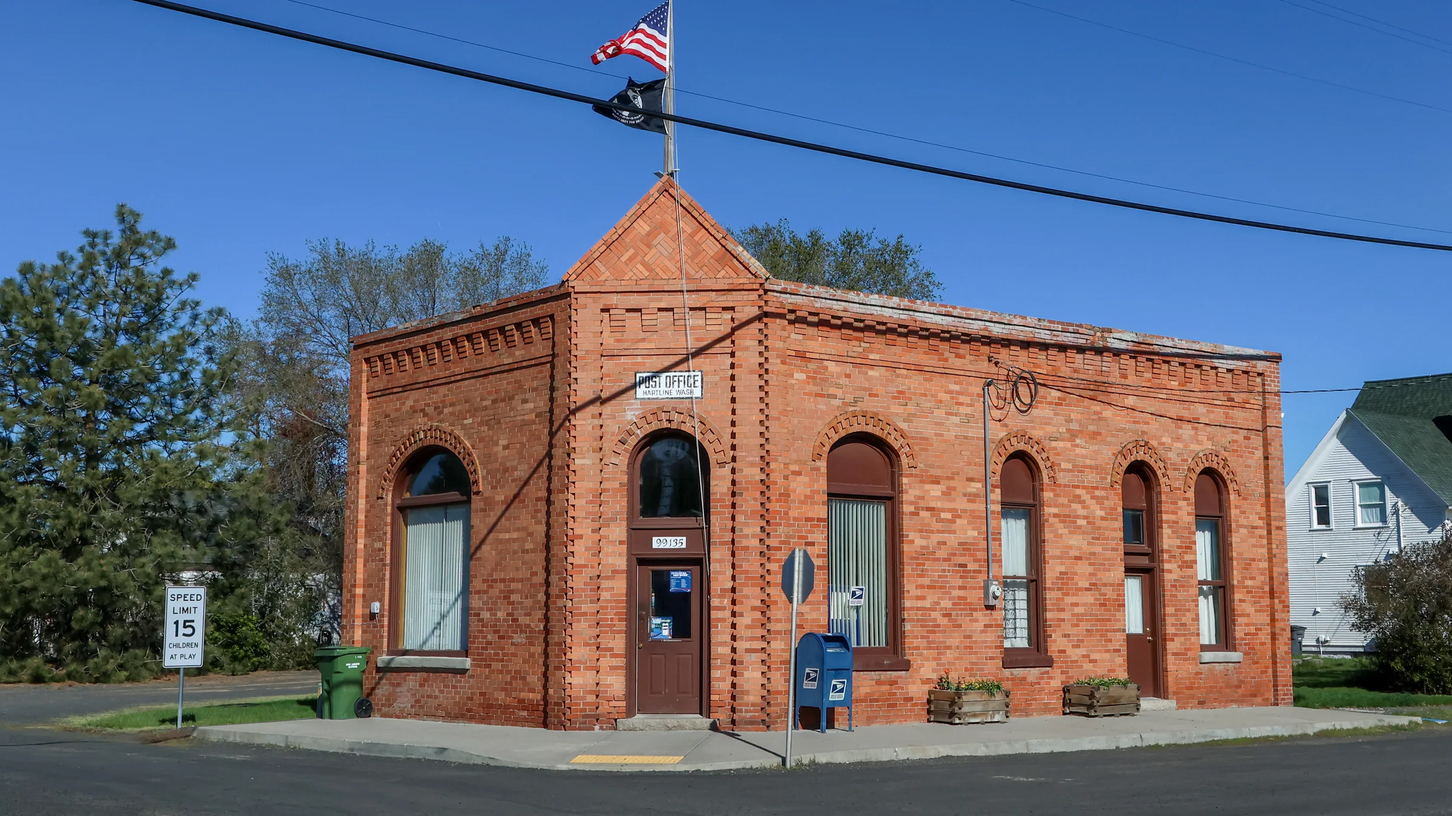
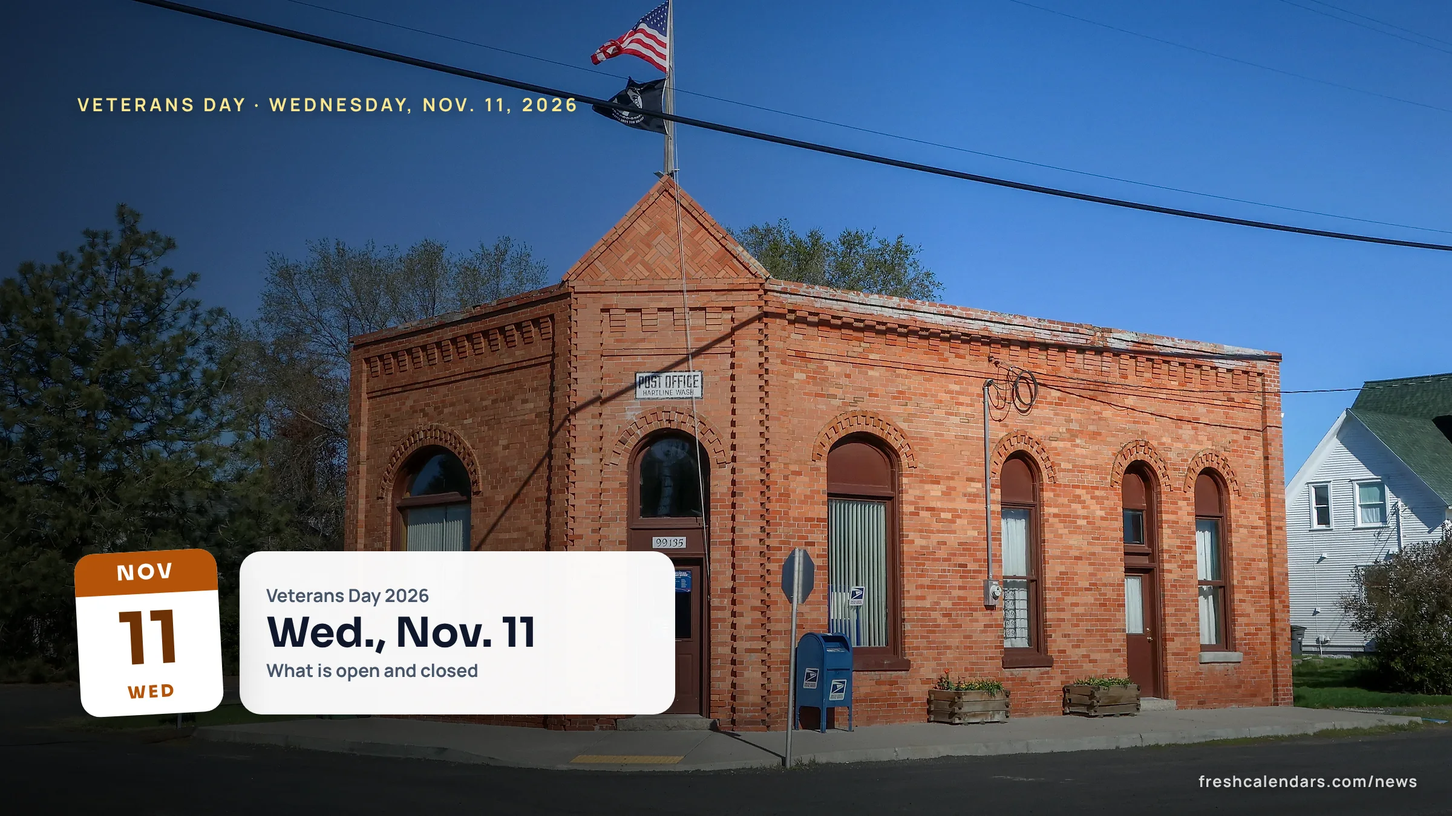
news(update): Veterans Day 2026 open/closed guide, 50-state table with state finder, carriers, VA, courts, countdown, new photo hero
Claude-Session: https://claude.ai/code/session_01FjeiYRWDXqsBhWSJPJfd5q

diff --git a/apps/news/src/content/articles/2026/10/veterans-day-2026-wednesday-november-11.md b/apps/news/src/content/articles/2026/10/veterans-day-2026-wednesday-november-11.md
@@ -1,35 +1,54 @@
 ---
 title: "What's Open and Closed on Veterans Day 2026, and Why the Holiday Never Moves to a Monday"
 seoTitle: "Veterans Day 2026: Post Office, Banks, DMV Open?"
-description: "Veterans Day 2026 is Wednesday, Nov. 11: post offices, the Federal Reserve and the Department of Motor Vehicles (DMV) in several states close; stocks trade."
+description: "Veterans Day 2026 is Wednesday, Nov. 11: post offices, the Federal Reserve and several state Department of Motor Vehicles (DMV) offices close; stocks trade."
 type: update
 publishedAt: "2026-10-17T17:00:00-04:00"
-updatedAt: "2026-11-02T12:50:00-05:00"
+updatedAt: "2026-11-08T03:43:00-05:00"
 authors: [christina-gerland]
 category: holidays
-keywords: ["Veterans Day 2026", "is the stock market open on Veterans Day", "is there mail on Veterans Day", "banks closed Veterans Day 2026", "November 11 2026"]
+keywords: ["Veterans Day 2026", "what's open and closed on Veterans Day 2026", "is there mail on Veterans Day", "is Veterans Day a state holiday", "banks closed Veterans Day 2026"]
 dateline: "New York"
 hero:
-  src: ../../../../assets/news/veterans-day-2026-wednesday-november-11/veterans-day-2026-wednesday-november-11.jpg
-  alt: "Veterans Day 2026 on Wednesday, Nov. 11: a waving U.S. flag and red remembrance poppies beside a Nov. 11 calendar page"
-  title: "Veterans Day 2026, Wednesday, Nov. 11: what's open and closed"
-  caption: "Veterans Day stays on Nov. 11 every year; in 2026 it falls on a Wednesday, so federal offices, banks and mail delivery stop midweek."
+  src: ../../../../assets/news/veterans-day-2026-wednesday-november-11/veterans-day-2026-wednesday-november-11.webp
+  alt: "U.S. Post Office in Hartline, Washington, flying the U.S. flag and the POW/MIA flag; post offices close for Veterans Day 2026"
+  caption: "The U.S. Post Office in Hartline, Washington, in April 2025. Post offices close and regular mail stops on Wednesday, Nov. 11, 2026, Veterans Day."
+  credit: "Photo: Cindy Shebley / Wikimedia Commons, cropped, edited"
+  license:
+    name: "CC BY 4.0"
+    url: "https://creativecommons.org/licenses/by/4.0"
+    source: "https://commons.wikimedia.org/wiki/File:Hartline_WA_USA_April_17,_2025_United_States_Post_Office_Building_(54678960554).jpg"
+    author: "Cindy Shebley"
+    authorUrl: "https://www.flickr.com/people/25636851@N03"
+assets:
+  overlay: true
+  kicker: "Veterans Day · Wednesday, Nov. 11, 2026"
+  date: "2026-11-11"
+  card: { top: "Veterans Day 2026", big: "Wed., Nov. 11", bottom: "What is open and closed" }
 summary:
   - "Veterans Day 2026 is Wednesday, Nov. 11, a federal holiday that stays on Nov. 11 every year."
-  - "Federal offices, the Federal Reserve, most banks and the Postal Service close; there is no regular mail delivery."
-  - "The New York Stock Exchange and Nasdaq are open; the bond market closes for the day."
-  - "In 2028 and 2029 the holiday falls on a weekend, so federal workers get Friday, Nov. 10, 2028 and Monday, Nov. 12, 2029 off."
+  - "All post offices close and regular mail and retail service resume Thursday, Nov. 12 (U.S. Postal Service, Nov. 4 release); the Federal Reserve and the bond market close."
+  - "The New York Stock Exchange and Nasdaq are open. State offices and Departments of Motor Vehicles vary: the state table and finder show what each state's official page says."
+  - "Arlington's national observance starts at 11 a.m. Eastern Time; the countdown clock shows that moment in your time zone."
 faq:
   - q: "Is Veterans Day 2026 a federal holiday?"
     a: "Yes. Veterans Day is one of the 11 federal holidays. In 2026 it falls on Wednesday, Nov. 11, and federal offices are closed."
   - q: "Is the stock market open on Veterans Day 2026?"
     a: "Yes. The New York Stock Exchange and Nasdaq hold a normal session from 9:30 a.m. to 4:00 p.m. ET. The bond market closes for the day under the schedule recommended by SIFMA."
   - q: "Is there mail on Veterans Day?"
-    a: "No. The U.S. Postal Service does not deliver regular mail and post offices are closed on federal holidays, including Veterans Day."
+    a: "No. The U.S. Postal Service says all Post Office locations are closed Wednesday, Nov. 11, 2026, and regular mail delivery and retail services resume Thursday, Nov. 12."
   - q: "Are banks open on Veterans Day?"
-    a: "Most banks close because the Federal Reserve is closed. ATMs, cards and online banking work, but transfers started on Nov. 11 usually settle on the next business day."
+    a: "Most banks close because the Federal Reserve is closed. ATMs, cards and online banking work. The South Carolina State Treasurer's 2026 holiday memo says no wire transfers or Automated Clearing House (ACH) files are processed when banks and the Federal Reserve are closed."
   - q: "Is the DMV open on Veterans Day 2026?"
-    a: "It depends on the state. California and Pennsylvania list Nov. 11 as a closure day for their driver license offices. New York lists it as a state legal holiday and Texas closes state offices, but check the office hours in your state."
+    a: "It depends on the state. California, Georgia, Iowa, Maryland, New Jersey and Pennsylvania list Nov. 11 as a closure for their driver license or motor vehicle offices. Florida, North Carolina and Oregon list it among their DMV holidays or closures. Check the state table."
+  - q: "Is Veterans Day a state holiday?"
+    a: "Mostly yes. Of the 51 jurisdictions in the table in this story, 48 have an official page or law that names Nov. 11. The table gives each state's own wording. Some states only list it as a paid holiday, and a few pages do not say whether offices close."
+  - q: "Is Costco open on Veterans Day 2026?"
+    a: "Costco has not posted 2026 Veterans Day hours on a page we could read, so check your warehouse."
+  - q: "Do UPS and FedEx deliver on Veterans Day 2026?"
+    a: "They set their own schedules. We could not read either carrier's 2026 holiday schedule, so check ups.com or fedex.com."
+  - q: "Are federal courts open on Veterans Day?"
+    a: "Federal courts generally close on federal holidays; for example, the U.S. Bankruptcy Court for the Eastern District of Washington lists itself closed Wednesday, Nov. 11, 2026."
   - q: "Are schools closed on Veterans Day 2026?"
     a: "It depends on the district. NYC Public Schools lists Wednesday, Nov. 11, 2026 as Veterans Day, schools closed. Most districts set their own calendars, so check yours."
   - q: "Why isn't Veterans Day on a Monday?"
@@ -81,6 +100,68 @@ sources:
     url: "https://www.nps.gov/planyourvisit/passes.htm"
     publisher: "National Park Service"
     date: "2026-10-09"
+  - title: "U.S. Postal Service To Observe Veterans Day Holiday, Nov. 11"
+    url: "https://about.usps.com/newsroom/national-releases/2026/1104-usps-to-observe-veterans-day-on-nov-11.htm"
+    publisher: "U.S. Postal Service"
+    date: "2026-11-04"
+  - title: "2026 National Veterans Day Observance Open to Public"
+    url: "https://www.arlingtoncemetery.mil/Media/News/Post/15150/2026-National-Veterans-Day-Observance-Open-to-Public"
+    publisher: "Arlington National Cemetery"
+    date: "2026-10-08"
+  - title: "Store Holiday Hours at The Home Depot"
+    url: "https://corporate.homedepot.com/news/company/store-holiday-hours-home-depot"
+    publisher: "The Home Depot"
+    date: "2026-03-30"
+  - title: "2026 Holiday Shopping at Target"
+    url: "https://corporate.target.com/press/fact-sheet/2026/11/holiday-shopping-information"
+    publisher: "Target Corporation"
+    date: "2026-11-05"
+  - title: "Court Holidays"
+    url: "https://www.waeb.uscourts.gov/court-holidays"
+    publisher: "U.S. Bankruptcy Court, Eastern District of Washington"
+  - title: "Iowa DOT offices closed Nov. 11 for Veterans Day"
+    url: "https://iowadot.gov/news/2026-10-30/iowa-dot-offices-closed-nov-11-veterans-day"
+    publisher: "Iowa Department of Transportation"
+    date: "2026-10-30"
+  - title: "November 2026 closures"
+    url: "https://mva.maryland.gov/news/november-2026-closures"
+    publisher: "Maryland Motor Vehicle Administration"
+    date: "2026-10-29"
+  - title: "Board of Driver Services"
+    url: "https://dds.georgia.gov/board-driver-services"
+    publisher: "Georgia Department of Driver Services"
+  - title: "MVC Holidays"
+    url: "https://www.nj.gov/mvc/locations/holidays.htm"
+    publisher: "New Jersey Motor Vehicle Commission"
+  - title: "DMV Office Closures"
+    url: "https://www.oregon.gov/odot/DMV/Pages/Offices/closures.aspx"
+    publisher: "Oregon DMV"
+  - title: "NCDMV Holiday Schedule"
+    url: "https://www.ncdot.gov/dmv/offices-services/locate-dmv-office/Pages/holidays-schedule.aspx"
+    publisher: "North Carolina DMV"
+  - title: "Georgia State Holidays 2026"
+    url: "https://georgia.gov/georgia-state-holidays-2026"
+    publisher: "Georgia.gov"
+  - title: "Administrative Circular 25-13, Holidays 2026"
+    url: "https://www.pa.gov/content/dam/copapwp-pagov/en/oa/documents/policies/ac/25-13.pdf"
+    publisher: "Pennsylvania Office of Administration"
+    date: "2025-08-19"
+  - title: "Arizona Revised Statutes 1-301"
+    url: "https://www.azleg.gov/ars/1/00301.htm"
+    publisher: "Arizona Legislature"
+  - title: "Wyoming Statutes, Title 8"
+    url: "https://wyoleg.gov/statutes/compress/title08.pdf"
+    publisher: "Wyoming Legislature"
+  - title: "2026 State of South Carolina Holidays vs. Federal/Banking Holidays"
+    url: "https://treasurer.sc.gov/media/5hkfeyd4/2026-state-of-sc-holiday-memo.pdf"
+    publisher: "South Carolina State Treasurer"
+    date: "2025-11-21"
+  - title: "State holidays"
+    url: "https://www.michigan.gov/government/state-holidays"
+    publisher: "State of Michigan"
+  - title: "2026 Schedule of Pay Periods and Holidays"
+    url: "https://finance.utah.gov/wp-content/uploads/2026PP.pdf"
+    publisher: "Utah Division of Finance"
 internalLinks:
   - href: "/when-is/veterans-day/"
     label: "When is Veterans Day? Next date and countdown"
@@ -94,46 +175,147 @@ draft: false
 related: [veterans-day-parades-2026-by-city, veterans-day-2026-national-ceremony-arlington-time, veterans-day-free-meals-discounts]
 ---
 
-Veterans Day 2026 falls on **Wednesday, Nov. 11**. It is a federal holiday, so federal offices, the Federal Reserve, most banks and the U.S. Postal Service close for the day, while the stock market stays open. Unlike most federal holidays, Veterans Day is tied to its date rather than a weekday, which is why it lands midweek this year instead of creating a long weekend.
+Veterans Day 2026 falls on **Wednesday, Nov. 11**, a federal holiday on the Office of Personnel Management (OPM) list. The U.S. Postal Service (USPS) says all Post Office locations close that day, and the Federal Reserve and the bond market close too. The New York Stock Exchange (NYSE) and Nasdaq trade as usual.
+
+Below: a table of what is open and closed, every state's official holiday wording with a state finder, and a live countdown to the 11 a.m. Eastern Time (ET) national observance. Unlike most federal holidays, Veterans Day is tied to its date rather than a weekday, which is why it lands midweek this year instead of creating a long weekend.
 
 ## What is open and closed on Nov. 11, 2026
 
-| Service | Status on Wednesday, Nov. 11 |
-|---|---|
-| Federal government offices | Closed |
-| Federal Reserve | Closed |
-| Most banks | Closed (ATMs, cards and online banking work) |
-| U.S. Postal Service | Post offices closed, no regular mail delivery |
-| Bond market | Closed (industry recommendation) |
-| New York Stock Exchange and Nasdaq | Open, 9:30 a.m. to 4:00 p.m. ET |
-| Public schools | Varies by district |
-| Most stores and restaurants | Open |
+| Service | Status on Wednesday, Nov. 11 | Source |
+|---|---|---|
+| Federal government offices | Closed | [OPM federal holidays](https://www.opm.gov/policy-data-oversight/pay-leave/federal-holidays/) |
+| Federal courts | Generally closed on federal holidays; the U.S. Bankruptcy Court for the Eastern District of Washington lists itself closed | [U.S. Bankruptcy Court court holidays](https://www.waeb.uscourts.gov/court-holidays) |
+| Federal Reserve | Closed | [Federal Reserve holidays](https://www.federalreserve.gov/aboutthefed/k8.htm) |
+| Most banks | Closed; ATMs, cards and online banking work; transfers started Nov. 11 generally settle the next business day, Thursday, Nov. 12 | [Federal Reserve holidays](https://www.federalreserve.gov/aboutthefed/k8.htm) |
+| Post offices | Closed; regular delivery and retail resume Thursday, Nov. 12 | [USPS release, Nov. 4, 2026](https://about.usps.com/newsroom/national-releases/2026/1104-usps-to-observe-veterans-day-on-nov-11.htm) |
+| Bond market | Closed (industry recommendation, confirmed Oct. 28, 2026) | [Securities Industry and Financial Markets Association (SIFMA) release](https://www.sifma.org/news/press-releases/sifma-fixed-income-market-close-recommendation-in-the-u-s-the-u-k-and-japan-for-the-u-s-veterans-day-holiday-2026) |
+| Stock market (NYSE, Nasdaq) | Open, 9:30 a.m. to 4 p.m. ET | [NYSE hours and calendars](https://www.nyse.com/trade/hours-calendars) |
+| UPS and FedEx | Set by each carrier; we could not read either 2026 schedule | ups.com, fedex.com |
+| Costco | Has not posted 2026 Veterans Day hours on a page we could read; check your warehouse | Costco warehouse |
+| Home Depot | No Nov. 11 entry on its 2026 holiday hours page, which lists Thanksgiving, Nov. 26, as closed | [Home Depot store holiday hours](https://corporate.homedepot.com/news/company/store-holiday-hours-home-depot) |
+| Target | Its 2026 holiday information (Nov. 5) does not list Nov. 11 and gives Thanksgiving as closed | [Target holiday shopping](https://corporate.target.com/press/fact-sheet/2026/11/holiday-shopping-information) |
+| Public schools | Varies by district; NYC Public Schools closed | [NYC Public Schools calendar](https://www.schools.nyc.gov/calendar) |
+| State offices and Departments of Motor Vehicles | Vary by state; see the tables below | State pages below |
+| National parks | Free-entrance day for U.S. citizens and residents | [National Park Service](https://www.nps.gov/planyourvisit/passes.htm) |
 
-## Is the post office, the DMV or school open on Veterans Day 2026?
+Other chains have not posted Veterans Day hours on pages we could read, so check your store before you go.
+
+## Post office, national parks and VA hours on Veterans Day 2026
 
 Short answers for Wednesday, Nov. 11, 2026, each with its source:
 
-- **Post office:** closed. The U.S. Postal Service (USPS) lists Wednesday, Nov. 11, 2026 on its "Holidays and Events" page, which it describes as a list of USPS holidays with no mail service, so there is no regular mail delivery. UPS and FedEx set their own schedules; check them directly.
-- **Banks:** the Federal Reserve lists Veterans Day, Nov. 11, among the holidays it observes in its 2026 to 2030 schedule. Check your own bank's branch hours.
-- **Stock market:** open. The New York Stock Exchange (NYSE) "Holidays & Trading Hours" page has no Nov. 11 entry. On Oct. 28, 2026, the Securities Industry and Financial Markets Association (SIFMA) confirmed its recommendation of a full close on Nov. 11 for U.S. dollar fixed income (the bond market).
-- **Schools:** it depends on the district. NYC Public Schools lists "Wed, Nov 11, 2026: Veterans Day, schools closed." Most districts set their own calendars.
+- **Post office:** closed. The USPS [Nov. 4, 2026 release](https://about.usps.com/newsroom/national-releases/2026/1104-usps-to-observe-veterans-day-on-nov-11.htm) says "All Post Office locations will be closed" and "Regular mail delivery and retail services will resume on Thursday, November 12." UPS and FedEx set their own schedules; we could not read either carrier's 2026 holiday schedule, so check them directly.
 - **National parks:** Nov. 11 is a free-entrance day, but from 2026 free entrance on these days is for U.S. citizens and residents only, the National Park Service (NPS) says (updated Oct. 9, 2026). Details are in our [national parks free days story](/news/national-parks-free-days-october-27-veterans-day-2026/).
+- **VA:** the Department of Veterans Affairs (VA) has no national 2026 notice that we found. Hours for clinics and offices are on each facility's VA.gov page.
 
-### Is the DMV open on Veterans Day 2026, by state?
+Federal courts generally close on federal holidays. The U.S. Bankruptcy Court for the Eastern District of Washington, for example, lists Wednesday, Nov. 11, 2026 among its closed days. State courts follow state calendars; Nevada Revised Statutes 236.015 closes that state's courts on legal holidays.
+
+Payment dates around the holiday are in our [November Social Security schedule story](/news/social-security-payment-schedule-november-2026-veterans-day-shift/).
+
+### Veterans Day 2026 DMV closures by state
 
 | State | What the official source says |
 |---|---|
+| Alaska | The Division of Motor Vehicles holiday list includes "11/11/26: Veterans' Day" and says "Our offices may be closed for the holidays, but our online services are open every day!" ([dmv.alaska.gov](https://dmv.alaska.gov/locations/alaska-state-holidays/)) |
 | California | The Department of Motor Vehicles (DMV) lists "Wednesday, November 11 – Veterans Day" and says all DMV offices are closed on its holiday dates. |
-| Florida | The Florida Department of Highway Safety and Motor Vehicles (FLHSMV) lists Veterans' Day, Wednesday, Nov. 11, 2026 among its office closures. County tax collector offices handle many driver license services, so check your county tax collector. |
+| Florida | The Florida Department of Highway Safety and Motor Vehicles (FLHSMV) lists Veterans' Day, Wednesday, Nov. 11, 2026 among its office closures. County tax collector offices handle driver license services, so check your county tax collector. |
+| Georgia | Department of Driver Services: "All centers will be closed Wednesday, November 11th, 2026." ([dds.georgia.gov](https://dds.georgia.gov/board-driver-services)) |
+| Iowa | Iowa Department of Transportation (DOT), Oct. 30, 2026: "All Iowa DOT driver's license service centers will be closed on Wednesday, Nov. 11." ([iowadot.gov](https://iowadot.gov/news/2026-10-30/iowa-dot-offices-closed-nov-11-veterans-day)) |
+| Maryland | Motor Vehicle Administration (MVA): "All MVA Branch Offices ... will be closed on Wednesday, November 11 for Veterans Day." ([mva.maryland.gov](https://mva.maryland.gov/news/november-2026-closures)) |
+| New Jersey | The Motor Vehicle Commission (MVC) lists Veteran's Day, 11/11/2026, under "MVC Facilities will be closed on the following holidays." ([nj.gov/mvc](https://www.nj.gov/mvc/locations/holidays.htm)) |
 | New York | The Department of Civil Service lists Wednesday, Nov. 11 as a state legal holiday. DMV office status is not confirmed; check DMV office hours. |
+| North Carolina | The North Carolina Division of Motor Vehicles holiday schedule lists "Wednesday, Nov. 11, 2026" among state holidays observed by driver license offices. ([ncdot.gov](https://www.ncdot.gov/dmv/offices-services/locate-dmv-office/Pages/holidays-schedule.aspx)) |
+| Oregon | The Oregon Department of Transportation DMV closures list reads "Veterans Day - Wednesday, Nov. 11, 2026". ([oregon.gov](https://www.oregon.gov/odot/DMV/Pages/Offices/closures.aspx)) |
 | Pennsylvania | Driver and Vehicle Services lists "November 11, 2026 – Veterans Day"; Driver License and Photo License Centers are closed statewide. |
 | Texas | The Comptroller's fiscal 2027 schedule lists Veterans Day, Wednesday, Nov. 11, as office closed for state offices. Check the Department of Public Safety (DPS) for driver license offices. |
 
-The federal closures come from the Office of Personnel Management (OPM) 2026 holiday table, which lists Veterans Day on Wednesday, Nov. 11, and from the Federal Reserve's 2026 holiday schedule. Because the Federal Reserve is closed, bank transfers and direct deposits started on Nov. 11 generally settle on Thursday, Nov. 12.
+## Is Veterans Day a state holiday in your state?
 
-Stock trading continues because the New York Stock Exchange does not close for Veterans Day. The bond market follows a different calendar: the Securities Industry and Financial Markets Association (SIFMA) recommends a full close on Veterans Day, as it does on Columbus Day.
+<form class="tool-box" data-state-finder data-none="This story does not list {state}. Your state's human resources or personnel office posts its holiday calendar." onsubmit="return false" hidden>
+<label for="state-pick">Check your state</label>
+<select id="state-pick"><option value="">Choose a state</option></select>
+<output class="tool-out"></output>
+</form>
 
-Schools are the biggest variable. Some districts close for the day, while many stay open and hold Veterans Day assemblies. Check your district calendar before planning around it.
+Status uses each page's own words. **Offices closed** means the page says offices close. **State holiday** means it is on the 2026 state employee holiday list, but the page does not say offices close. **Legal holiday (state law)** means a standing law; no 2026 page was read. **Not confirmed** means we could not read or find an official page naming Nov. 11.
+
+| State | Status | What the official page says |
+|---|---|---|
+| Alabama | State holiday | 2026 list: "Wednesday, November 11, Veterans' Day"; closure not stated ([Alabama State Personnel Department](https://personnel.alabama.gov/state-holidays/)) |
+| Alaska | State holiday | Division of Motor Vehicles holiday list: "11/11/26: Veterans' Day" ([Alaska Division of Motor Vehicles](https://dmv.alaska.gov/locations/alaska-state-holidays/)) |
+| Arizona | Legal holiday (state law) | Arizona Revised Statutes 1-301: November 11, "Veterans' Day" ([Arizona Revised Statutes 1-301](https://www.azleg.gov/ars/1/00301.htm)) |
+| Arkansas | Offices closed | Shared Administrative Services lists state offices closed for Veterans Day, Nov. 11, 2026 ([Arkansas Shared Administrative Services](https://sas.arkansas.gov/events/state-offices-closed-veterans-day-3/)) |
+| California | State holiday | Secretary of State list: "Wednesday, November 11, Veterans Day" ([California Secretary of State](https://www.sos.ca.gov/state-holidays)) |
+| Colorado | State holiday | The Department of Revenue holiday list includes Veterans Day, Wednesday, Nov. 11, 2026 ([Colorado Department of Revenue](https://tax.colorado.gov/holidays)) |
+| Connecticut | State holiday | "Legal holidays to be observed by the State of Connecticut in the year 2026": Veterans Day, Wednesday, Nov. 11 ([Connecticut state holidays 2026](https://portal.ct.gov/dob/administration/administration/2026-state-holidays)) |
+| Delaware | State holiday | "Veterans Day, November 11, Wednesday" on the 2026 list ([Delaware Department of Human Resources](https://dhr.delaware.gov/holidays/2026.shtml)) |
+| District of Columbia | District holiday | "Veterans Day: Wednesday, November 11, 2026" ([District of Columbia Department of Human Resources](https://dchr.dc.gov/page/holiday-schedules)) |
+| Florida | Legal holiday (state law) | Paid holiday under Florida Statutes 110.117: "Veterans' Day, November 11" ([Florida Statutes 110.117](https://www.leg.state.fl.us/Statutes/index.cfm?App_mode=Display_Statute&URL=0100-0199%2F0110%2FSections%2F0110.117.html)) |
+| Georgia | Offices closed | "State holidays when the Capitol and state agencies will be closed in 2026": Wednesday, Nov. 11 ([Georgia.gov](https://georgia.gov/georgia-state-holidays-2026)) |
+| Hawaii | Legal holiday (state law) | Hawaii Revised Statutes 8-1: "The eleventh day in November, Veterans' Day" ([Hawaii Revised Statutes 8-1](https://data.capitol.hawaii.gov/hrscurrent/Vol01_Ch0001-0042F/HRS0008/HRS_0008-0001.htm)) |
+| Idaho | State holiday | State holiday list: "Wednesday, November 11th" ([Idaho.gov state holidays](https://idaho.gov/government/state-holidays/)) |
+| Illinois | Offices closed | Treasurer's page "State Holidays When Illinois Government Offices Are Closed": Veterans Day, Wednesday, Nov. 11 ([Illinois State Treasurer](https://www.illinoistreasurer.gov/?p=210)) |
+| Indiana | State holiday | "Veterans Day, Wednesday, November 11, 2026" ([Indiana State Personnel Department](https://secure.in.gov/spd/benefits/state-holidays)) |
+| Iowa | Transportation offices closed | Department of Transportation: all business locations closed Wed., Nov. 11; state holiday law not read ([Iowa Department of Transportation](https://iowadot.gov/news/2026-10-30/iowa-dot-offices-closed-nov-11-veterans-day)) |
+| Kansas | State holiday | Executive branch 2026 list: Veterans Day, Wednesday, Nov. 11, 2026 ([Kansas Department of Administration](https://admin.ks.gov/offices/personnel-services/agency-information/holidays-for-state-of-kansas-executive-branch-employees/holidays-for-2026)) |
+| Kentucky | State holiday | "Veterans Day - Wednesday, November 11, 2026" among paid holidays ([Kentucky Personnel Cabinet](https://extranet.personnel.ky.gov/pages/Leave.aspx)) |
+| Louisiana | Not confirmed | No 2026 official notice for Nov. 11 found (Louisiana State Civil Service) |
+| Maine | Not confirmed | 2026 human resources memo could not be read ([Maine Bureau of Human Resources](https://www.maine.gov/bhr/)) |
+| Maryland | State holiday | 2026 state holidays: Veterans' Day, Wednesday, Nov. 11 ([Maryland Department of Budget and Management](https://dbm.maryland.gov/employees/Pages/StateHolidays2026.aspx)) |
+| Massachusetts | Legal holiday (state law) | General Laws chapter 4, section 7 lists "November eleventh" as a legal holiday ([Massachusetts General Laws](https://www.malegislature.gov/Laws/GeneralLaws/PartI/TitleI/Chapter4/Section7)) |
+| Michigan | State holiday | "The below holidays are observed by the State of Michigan: ... Veterans Day, November 11" (undated list) ([Michigan.gov state holidays](https://www.michigan.gov/government/state-holidays)) |
+| Minnesota | Legal holiday (state law) | Minnesota Statutes 645.44 lists "Veterans Day, November 11" ([Minnesota Revisor of Statutes](https://www.revisor.mn.gov/statutes/cite/645.44)) |
+| Mississippi | State holiday | "Armistice or Veteran's Day," November 11 (undated list) ([Mississippi Department of Finance and Administration](https://www.dfa.ms.gov/hr-state-holidays)) |
+| Missouri | State holiday | 2026 list: "Veterans Day, Wednesday, November 11" ([Missouri Office of Administration](https://oa.mo.gov/commissioner/state-holidays)) |
+| Montana | Legal holiday (state law) | Montana Code Annotated 1-1-216: "Veterans' Day, November 11"; a legal holiday is not a business day ([Montana Code Annotated](https://leg.mt.gov/bills/mca/title_0010/chapter_0010/part_0020/section_0160/0010-0010-0020-0160.html)) |
+| Nebraska | State holiday | Personnel holiday page: "Veterans Day - November 11" (undated) ([Nebraska Department of Administrative Services](https://das.nebraska.gov/personnel/holiday.html)) |
+| Nevada | Offices closed | Nevada Revised Statutes 236.015: state, county and city offices, courts and public schools "must close" on legal holidays, including Nov. 11 ([Nevada Revised Statutes 236](https://www.leg.state.nv.us/nrs/nrs-236.html)) |
+| New Hampshire | Legal holiday (state law) | Revised Statutes Annotated 288:1 names Nov. 11 as Veterans Day ([New Hampshire Revised Statutes 288:1](https://gc.nh.gov/rsa/html/xxv/288/288-1.htm)) |
+| New Jersey | State holiday | "Observed by State agencies in 2026": Veteran's Day, 11/11/2026, Wednesday ([New Jersey state holidays](https://www.nj.gov/nj/about/facts/holidays.shtml)) |
+| New Mexico | State holiday | The 2026 paid holiday schedule lists Veterans Day, Wednesday, Nov. 11, 2026 ([New Mexico State Personnel Office](https://www.spo.state.nm.us/wp-content/uploads/2026-Paid-Holiday-Schedule-1.pdf)) |
+| New York | State holiday | 2026 legal holidays for state employees: Wednesday, Nov. 11, Veterans' Day ([New York State Department of Civil Service](https://www.cs.ny.gov/attendance_leave/2026_legal_holidays.cfm)) |
+| North Carolina | State holiday | Division of Motor Vehicles: state holiday "Wednesday, Nov. 11, 2026"; General Statutes 103-4 lists Veterans Day ([North Carolina Division of Motor Vehicles](https://www.ncdot.gov/dmv/offices-services/locate-dmv-office/Pages/holidays-schedule.aspx)) |
+| North Dakota | Legal holiday (state law) | Century Code 1-03-01: "The eleventh day of November, which is Veterans' Day" ([North Dakota Century Code](https://ndlegis.gov/cencode/t01c03.pdf)) |
+| Ohio | Legal holiday (state law) | Revised Code 124.19 state holidays include "the eleventh day of November" ([Ohio Revised Code 124.19](https://codes.ohio.gov/ohio-revised-code/section-124.19)) |
+| Oklahoma | State holiday | 2026 official state holidays: Wednesday, Nov. 11, 2026, Veterans Day ([Oklahoma Office of Management and Enterprise Services](https://oklahoma.gov/omes/divisions/human-capital-management/employee-benefits/leave-holidays/holidays.html)) |
+| Oregon | Offices closed | Oregon DMV page: "State agencies will be closed on the following days in 2026: ... Veterans Day - Wednesday, Nov. 11, 2026"; a 2026 Department of Administrative Services memo also lists "Veterans Day Wednesday, November 11" but does not apply to represented employees ([Oregon DMV](https://www.oregon.gov/odot/DMV/Pages/Offices/closures.aspx)) |
+| Pennsylvania | Offices closed | Circular 25-13: offices "shall be closed on the following 2026 holidays": Veterans Day, November 11 ([Pennsylvania Office of Administration](https://www.pa.gov/content/dam/copapwp-pagov/en/oa/documents/policies/ac/25-13.pdf)) |
+| Rhode Island | State holiday | 2026 calendar: "Veterans' Day Wednesday, November 11" ([Rhode Island Division of Human Resources](https://hr.ri.gov/documents/Calendars/HR%20Calendar%202026.pdf)) |
+| South Carolina | State holiday | 2026 Treasurer memo (Nov. 21, 2025): "Veterans Day Wednesday, November 11" ([South Carolina State Treasurer](https://treasurer.sc.gov/media/5hkfeyd4/2026-state-of-sc-holiday-memo.pdf)) |
+| South Dakota | State holiday | Labor and Regulation holiday closures page: Veterans Day, November 11 (undated) ([South Dakota Department of Labor and Regulation](https://dlr.sd.gov/holiday_closures.aspx)) |
+| Tennessee | Offices closed | "Tennessee State Government office closures have been approved for 2026: ... Wednesday, November 11, Veterans Day" ([Tennessee state holidays](https://www.tn.gov/about-tn/state-holidays.html)) |
+| Texas | Offices closed | Comptroller's fiscal 2027 schedule: Nov. 11 (Wed), Veterans Day, office closed ([Texas Comptroller](https://comptroller.texas.gov/about/holidays.php)) |
+| Utah | State holiday | 2026 pay period schedule: "11/11/2026 (W) Veterans' Day" ([Utah Division of Finance](https://finance.utah.gov/wp-content/uploads/2026PP.pdf)) |
+| Vermont | Legal holiday (state law) | Title 1, section 371: "Veterans' Day, November 11" ([Vermont Statutes](https://legislature.vermont.gov/statutes/fullchapter/01/007)) |
+| Virginia | Legal holiday (state law) | Code of Virginia 2.2-3300: "November 11, Veterans Day" ([Code of Virginia](https://law.lis.virginia.gov/vacode/title2.2/chapter33/section2.2-3300/)) |
+| Washington | Legal holiday (state law) | Revised Code of Washington 1.16.050: "The eleventh day of November, to be known as Veterans Day" ([Revised Code of Washington 1.16.050](https://app.leg.wa.gov/rcw/default.aspx?cite=1.16.050)) |
+| West Virginia | Legal holiday (state law) | West Virginia Code 2-2-1: November 11 is "Veterans' Day" ([West Virginia Code](https://code.wvlegislature.gov/2-2-1/)) |
+| Wisconsin | Not confirmed | Official 2026 schedule not found ([Wisconsin Legislature](https://docs.legis.wisconsin.gov/document/statutes/230.35(4)(c))) |
+| Wyoming | Legal holiday (state law) | Wyoming Statutes 8-4-101: "Veterans Day, November 11" ([Wyoming Legislature](https://wyoleg.gov/statutes/compress/title08.pdf)) |
+
+Could not confirm from an official page: Louisiana, Maine and Wisconsin. Check your state personnel office.
+
+## Veterans Day 2026 countdown to the Arlington observance
+
+<div class="tool-box" data-launch-clock data-local="2026-11-11" data-done="That moment has arrived." data-targets="Veterans Day, midnight in your own time zone|;National Veterans Day Observance at Arlington, 11 a.m. Eastern Time (ET)|2026-11-11T16:00:00Z;Thanksgiving Day, midnight ET|2026-11-26T05:00:00Z" hidden>
+<p class="tool-title">Days, hours, minutes and seconds until Veterans Day</p>
+<label for="lc-vets">Count down to</label>
+<select id="lc-vets"></select>
+<div class="tool-out"></div>
+</div>
+
+Arlington National Cemetery's [Oct. 8, 2026 notice](https://www.arlingtoncemetery.mil/Media/News/Post/15150/2026-National-Veterans-Day-Observance-Open-to-Public) sets the national observance for 11 a.m. ET; our [Arlington ceremony story](/news/veterans-day-2026-national-ceremony-arlington-time/) has the program, tram and bag rules.
+
+## Dates around Veterans Day 2026
+
+<p class="days-live" data-days-until="2026" hidden></p>
+
+| Date | Day | What happens | Days from Nov. 8 |
+|---|---|---|---|
+| Nov. 10 | Tuesday | Last business day before the holiday | 2 |
+| Nov. 11 | Wednesday | Veterans Day; Arlington observance 11 a.m. ET | 3 |
+| Nov. 12 | Thursday | Mail delivery and post office retail service resume; Nov. 11 bank transfers generally settle | 4 |
+| Nov. 26 | Thursday | Thanksgiving, the next federal holiday | 18 |
 
 ## Why Veterans Day stays on Nov. 11
 
@@ -143,7 +325,7 @@ In 1954, after World War II and the Korean War, Congress renamed it Veterans Day
 
 Our [free Veterans Day activity sheet and quiz](/news/veterans-day-printables-2026-activity-sheet-quiz-thank-you-note/) turns these dates into a class quiz.
 
-## When Nov. 11 falls on a weekend
+## When Veterans Day falls on a weekend
 
 Because the holiday keeps its date, it sometimes lands on a Saturday or Sunday. OPM's rule is that a Saturday holiday is observed on the Friday before and a Sunday holiday on the Monday after, for federal pay and leave purposes.
 
@@ -155,6 +337,12 @@ Because the holiday keeps its date, it sometimes lands on a Saturday or Sunday. 
 | 2029 | Sunday | Monday, Nov. 12 |
 | 2030 | Monday | Monday, Nov. 11 |
 | 2031 | Tuesday | Tuesday, Nov. 11 |
+| 2032 | Thursday | Thursday, Nov. 11 |
+| 2033 | Friday | Friday, Nov. 11 |
+| 2034 | Saturday | Friday, Nov. 10 |
+| 2035 | Sunday | Monday, Nov. 12 |
+
+Between 2026 and 2045 the holiday falls on a weekend six times: 2028, 2029, 2034, 2035, 2040 and 2045. In 2040 (a Sunday) the observed day is Monday, Nov. 12, and in 2045 (a Saturday) it is Friday, Nov. 10.
 
 Ceremonies, including the national observance at Arlington National Cemetery, are traditionally held on Nov. 11 itself even in weekend years.
 
@@ -162,11 +350,12 @@ Ceremonies, including the national observance at Arlington National Cemetery, ar
 
 The two holidays are often confused. Veterans Day honors everyone who has served in the U.S. armed forces, living or dead. Memorial Day, observed on the last Monday in May, honors those who died while serving. In 2027, Memorial Day falls on Monday, May 31.
 
-## Planning tips for a midweek holiday
+## Planning tips for Veterans Day week 2026
 
 - Send time-sensitive mail and bank transfers by Tuesday, Nov. 10.
 - If you have children in school, confirm whether your district is open; closures differ even between neighboring districts.
-- Many restaurants and retailers offer discounts to veterans and service members on Nov. 11; most require a military ID or proof of service. Our [Veterans Day free meals and discounts list](/news/veterans-day-free-meals-discounts/) tracks every confirmed 2026 offer. Our guide to [Golden Corral's Military Appreciation Night](/news/golden-corral-military-appreciation-night-2026/) covers that event.
+- Restaurants and retailers list discounts to veterans and service members on Nov. 11; most require a military ID or proof of service. Our [Veterans Day free meals and discounts list](/news/veterans-day-free-meals-discounts/) tracks every confirmed 2026 offer, and the guide to [proving veteran status for discounts](/news/veteran-id-card-how-to-prove-veteran-status-discounts/) covers the paperwork. Our guide to [Golden Corral's Military Appreciation Night](/news/golden-corral-military-appreciation-night-2026/) covers that event.
+- Parades: see the [Veterans Day parades by city](/news/veterans-day-parades-2026-by-city/) and the [NYC Veterans Day parade](/news/nyc-veterans-day-parade-2026-time-route-grand-marshal-suni-williams/).
 - Thanksgiving follows two weeks later, on Thursday, Nov. 26, so November 2026 has two federal holidays in the same month. Both are marked on our [November 2026 printable calendar](/november-calendars.html), and the full year is in the [2026 US holiday list](/holidays/).
 
 The next federal holiday is [Thanksgiving on Thursday, Nov. 26](/news/why-thanksgiving-2026-is-november-26/). Election Day, Nov. 3, is not a federal holiday; see [what is open on Election Day](/news/is-election-day-a-holiday-2026-whats-open/), and the [2027 federal holiday list](/news/federal-holidays-2027-observed-dates-list/) has next year's dates.
